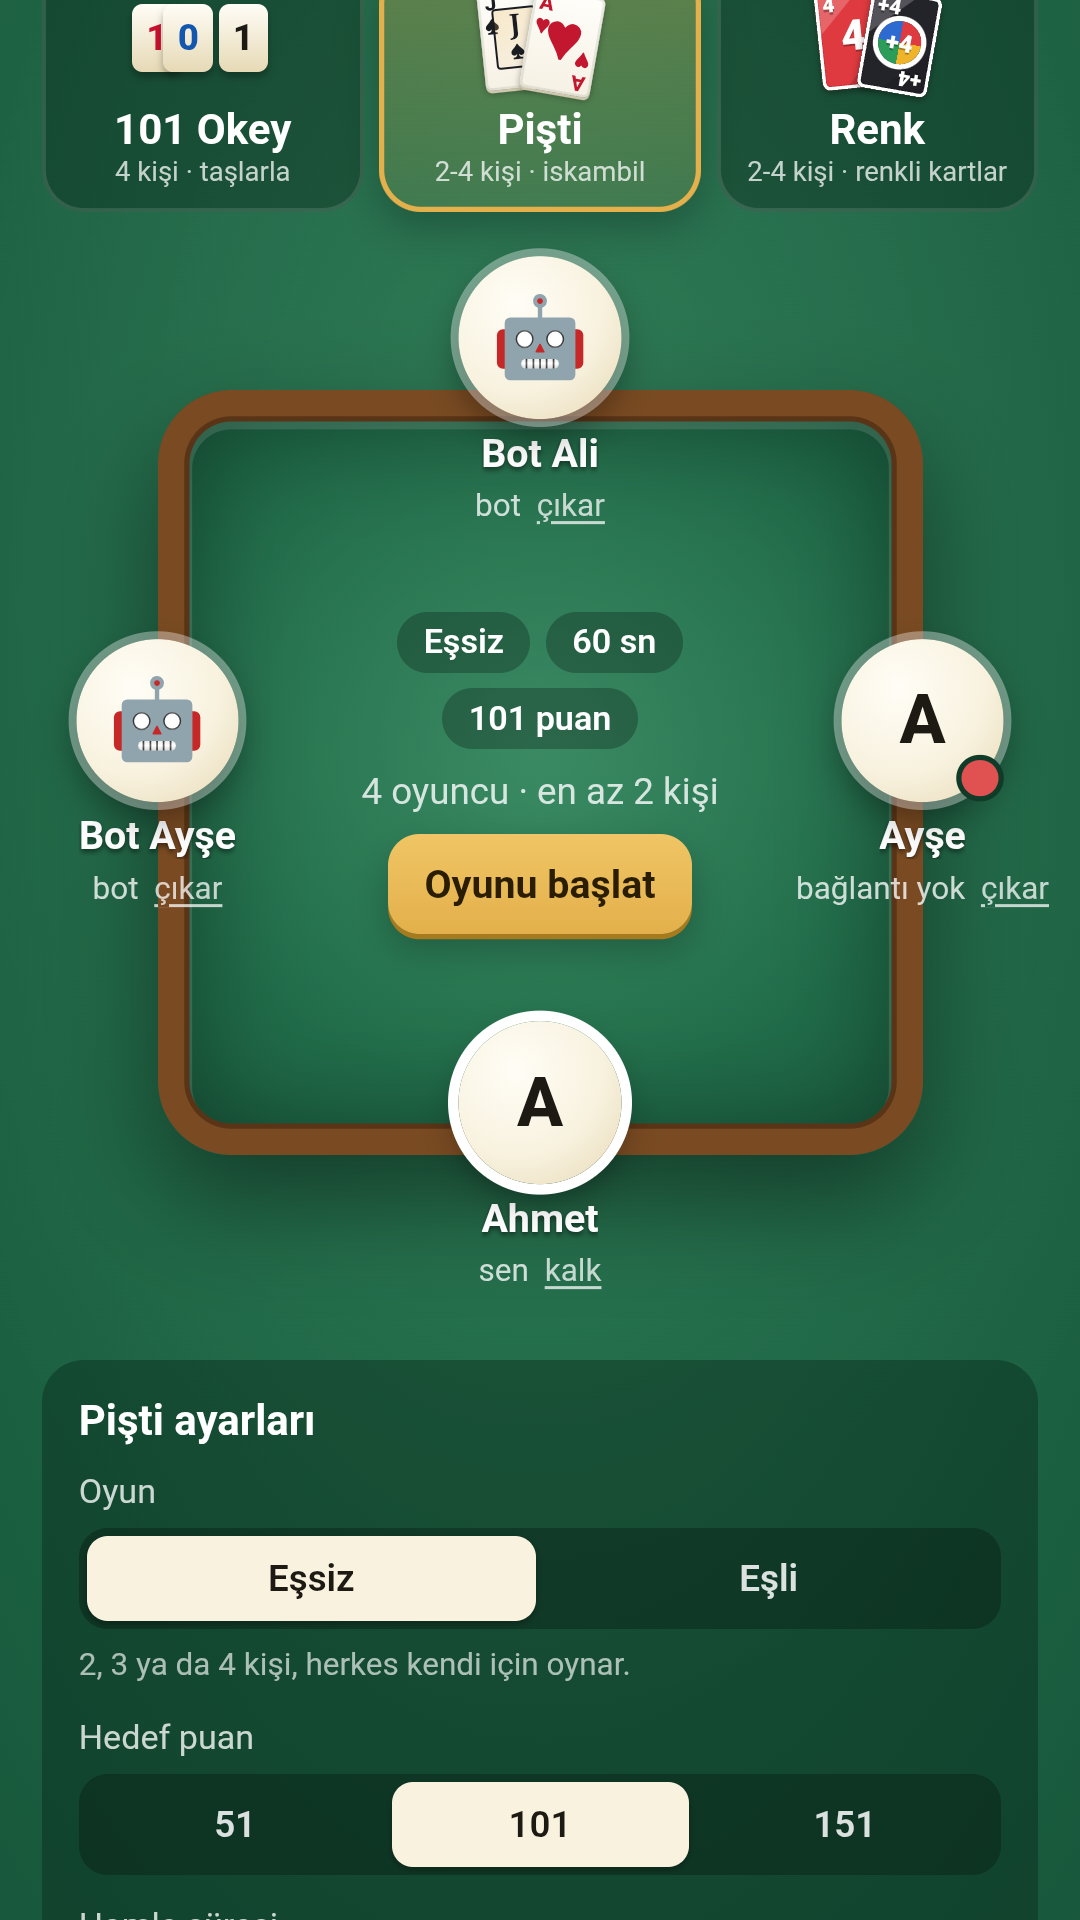
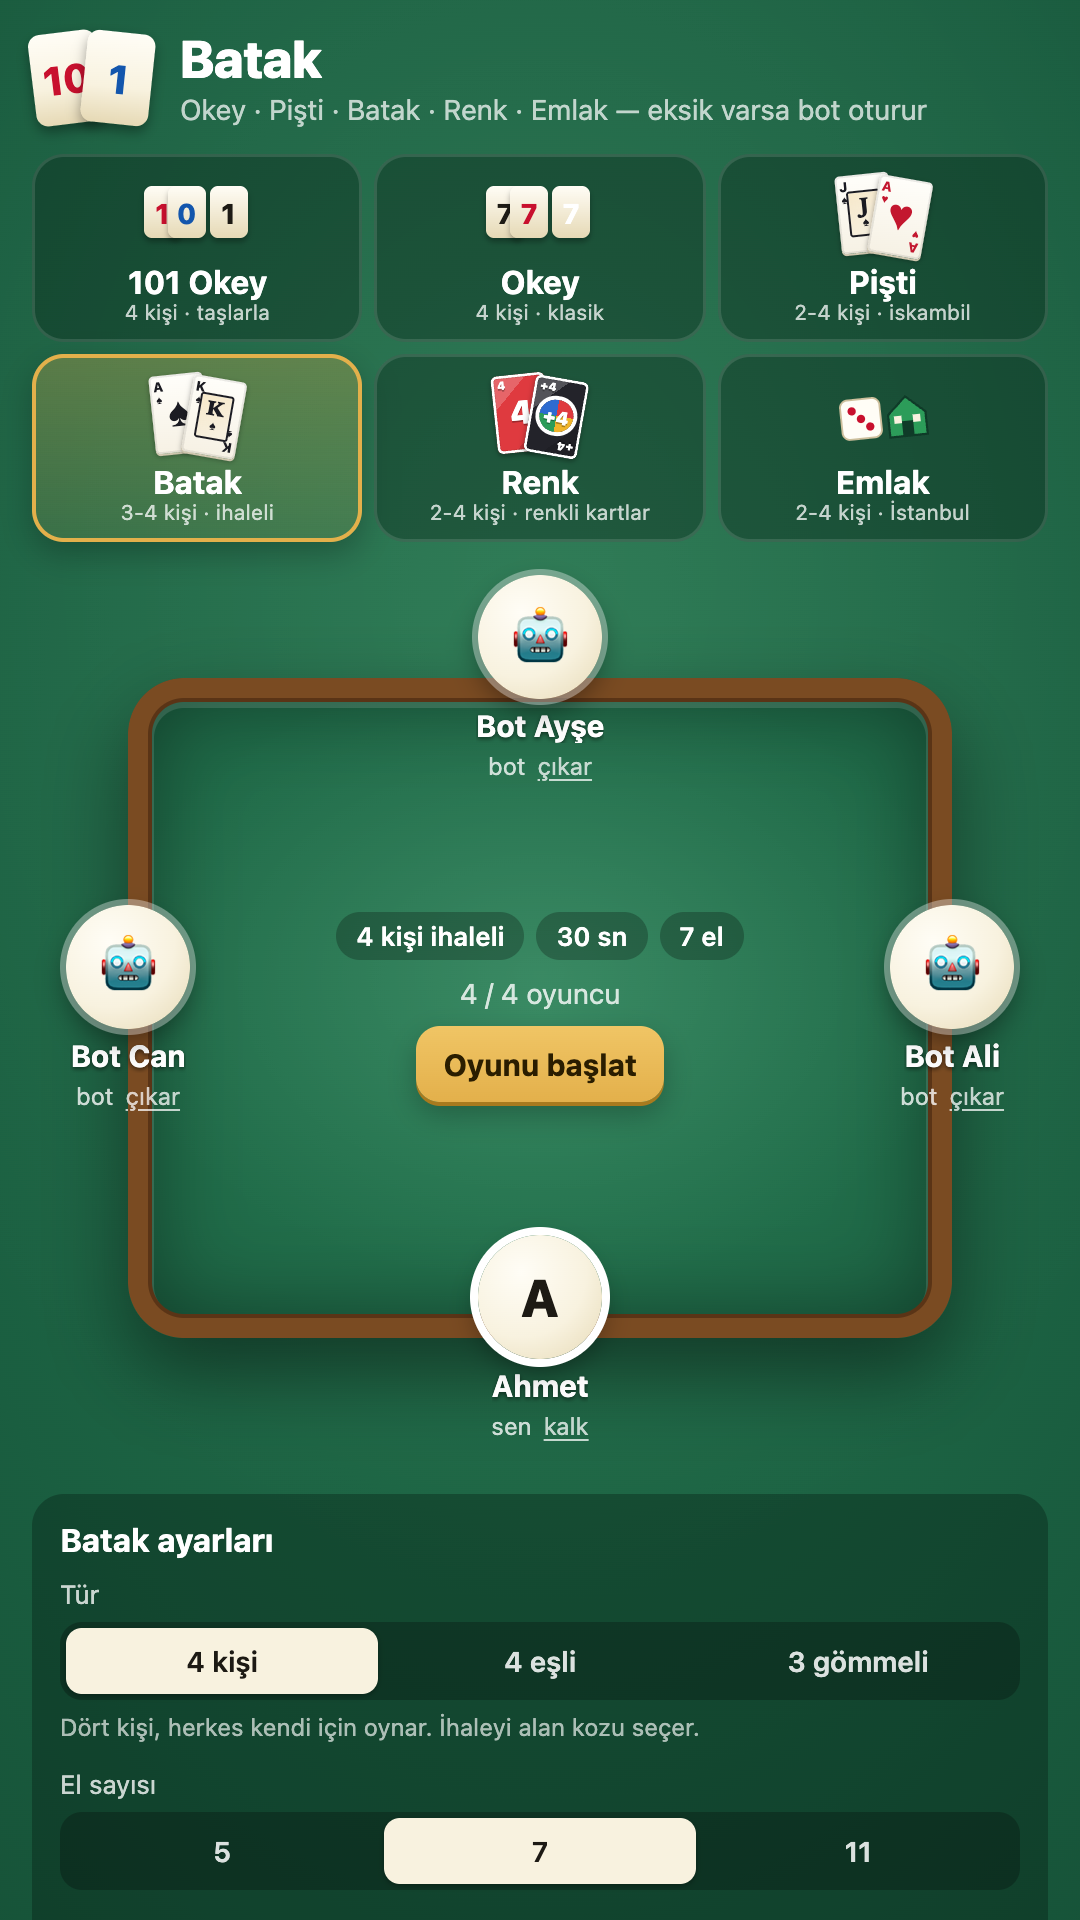
Mağaza görselleri: altı oyunlu lobi, Batak ve İstanbul Emlak ekran görüntüleri

diff --git a/docs/magaza/magaza-metinleri.md b/docs/magaza/magaza-metinleri.md
@@ -2,7 +2,7 @@
 
 Play Console → Mağaza varlığı → Ana mağaza girişi. Varsayılan dil **Türkçe (tr-TR)**, çeviri olarak **İngilizce (en-US)** eklenir. Karakter sınırları: ad 30, kısa açıklama 80, uzun açıklama 4000.
 
-Görseller bu klasörde: `simge-512.png` (uygulama simgesi, 512×512), `one-cikan-1024x500.png` (öne çıkan görsel), `ekran-1…6.png` (telefon ekran görüntüleri, 1080×1920 dikey ve 1920×1080 yatay; Play 16:9 / 9:16 ister), `tablet-1…4.png` (7 ve 10 inç tablet alanlarına aynı dört dosya, 2844×1600).
+Görseller bu klasörde: `simge-512.png` (uygulama simgesi, 512×512), `one-cikan-1024x500.png` (öne çıkan görsel), `ekran-1…8.png` (telefon ekran görüntüleri, 1080×1920 dikey ve 1920×1080 yatay; Play 16:9 / 9:16 ister; 7 Batak, 8 İstanbul Emlak, 2 altı oyunlu lobi), `tablet-1…4.png` (7 ve 10 inç tablet alanlarına aynı dört dosya, 2844×1600).
 
 Gizlilik politikası adresi: `https://ahmetemreozumagi.github.io/Okey_101/gizlilik.html` (GitHub Pages: depo ayarlarından Pages → Source: `main` dalı, `/docs` klasörü açılmalı).
 
